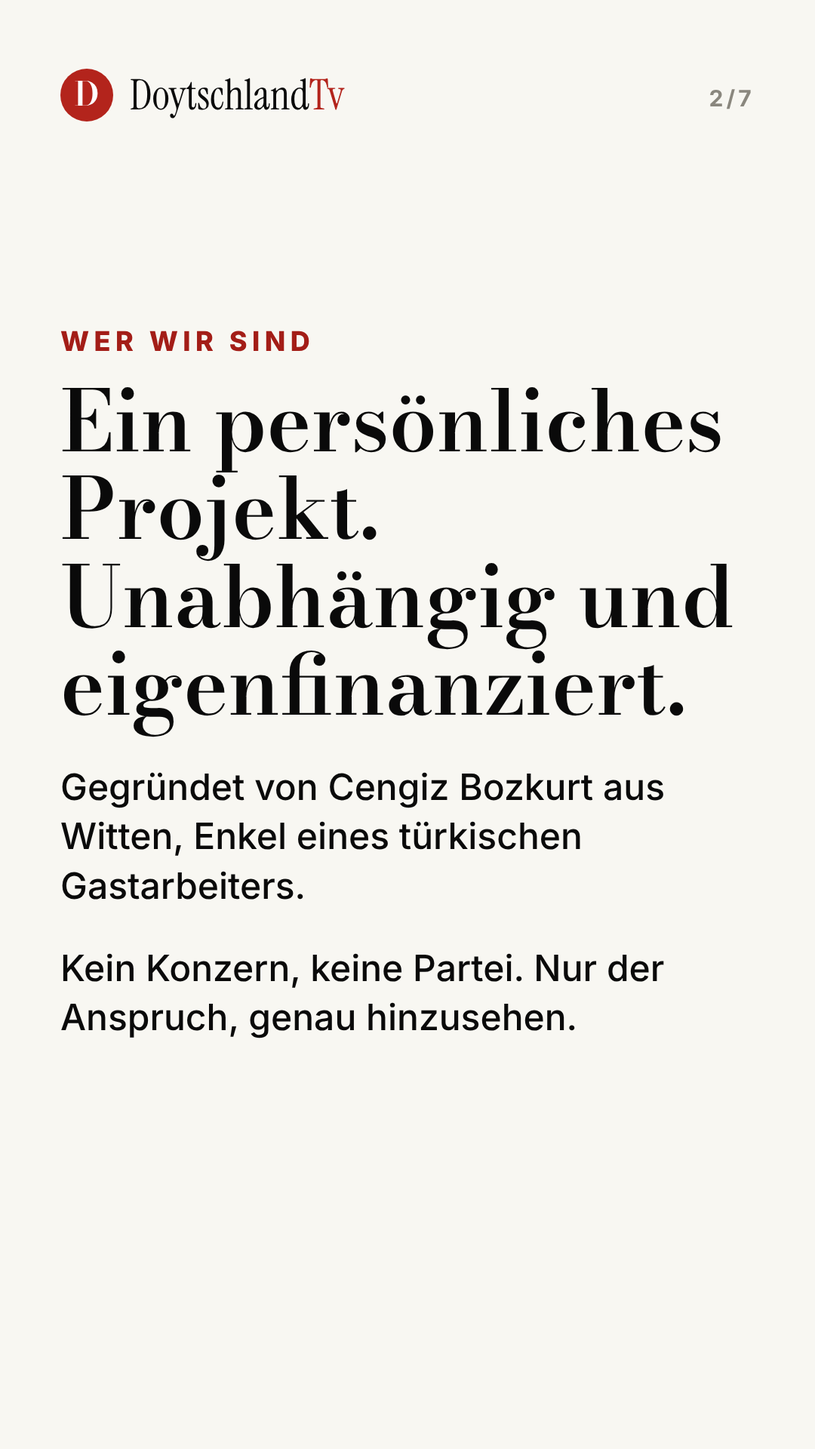
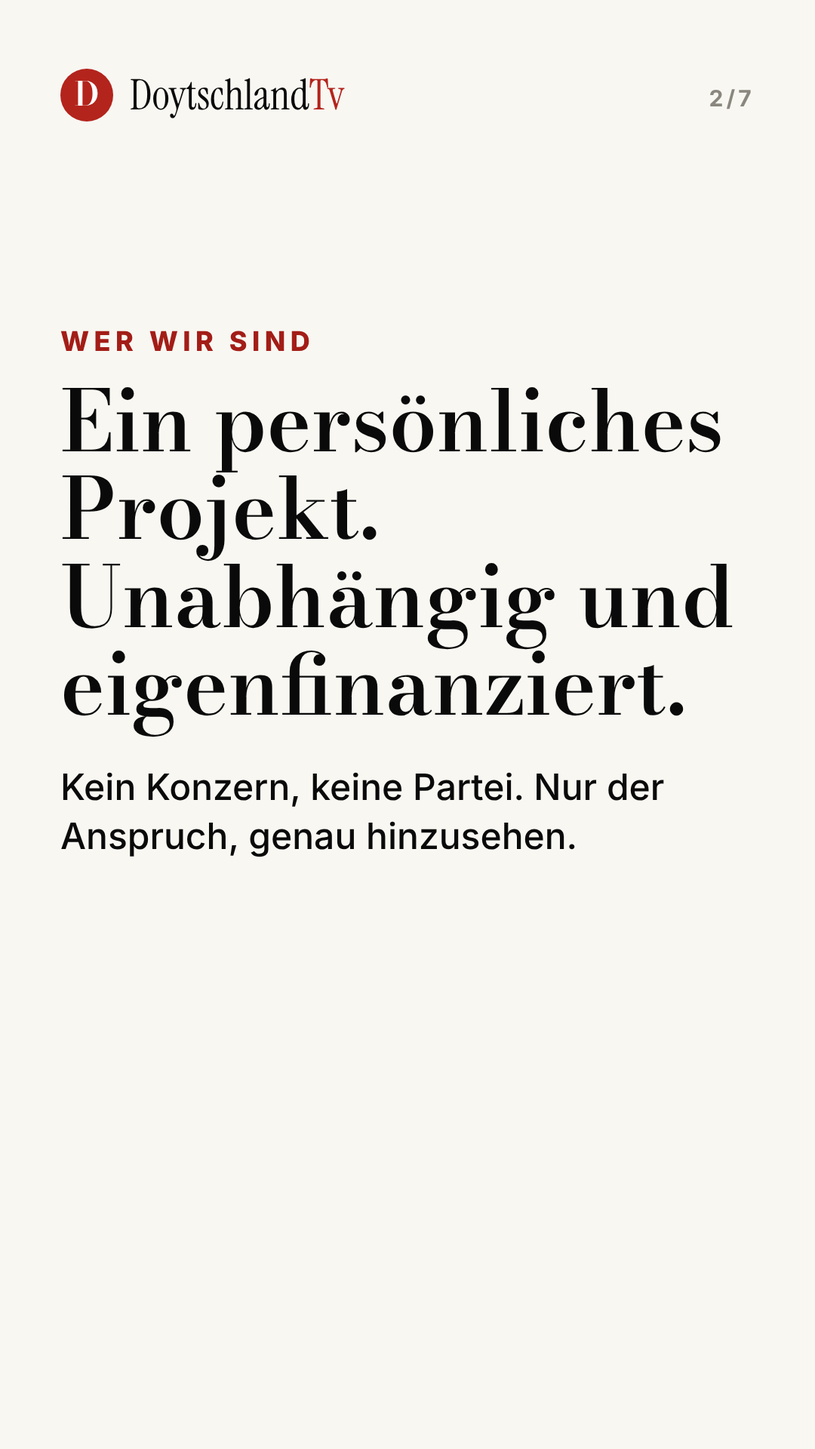
Name und Wohnort aus Über-uns, Stories und Sprechertext entfernt, Story 7 ohne Rückblick-Versprechen
Claude-Session: https://claude.ai/code/session_01HADCkE2LZJHKQCUdz9XwMJ

Changed region(s): [[0.0611, 0.5312, 0.825, 0.625], [0.0611, 0.6562, 0.825, 0.7188]]

diff --git a/meinung/2026-10-09.html b/meinung/2026-10-09.html
@@ -11,4 +11,4 @@
 <script type="application/ld+json">{"@context": "https://schema.org", "@type": "OpinionNewsArticle", "headline": "Vierzig Jahre Krieg, und jetzt? Der Frieden muss bei den Menschen ankommen", "description": "Die PKK erklärt den vollständigen Abzug aus der Türkei. Ein Ende der Gewalt wäre ein Gewinn für Türken und Kurden, doch ob es ein Sieg der Menschen wird…", "datePublished": "2026-10-09", "dateModified": "2026-10-09", "inLanguage": "de", "mainEntityOfPage": "https://doytschtv.de/meinung/2026-10-09.html", "image": ["https://doytschtv.de/kolumne-pkk.jpg"], "author": {"@type": "Organization", "name": "DoytschlandTv", "url": "https://doytschtv.de/"}, "publisher": {"@type": "Organization", "name": "DoytschlandTv", "logo": {"@type": "ImageObject", "url": "https://doytschtv.de/favicon.png"}}, "articleSection": "Meinung"}</script>
 <link rel="stylesheet" href="/fonts.css"><link rel="stylesheet" href="/styles.css"><link rel="stylesheet" href="/briefing.css">
 <style>:root{color-scheme:light}body{margin:0}</style><link rel="icon" type="image/png" href="/favicon.png"></head><body>
-<header class="nav"><div class="wrap"><a class="brand" href="/index.html"><span class="mk" aria-hidden="true">D</span><img class="lg-l" src="/logo.png" alt="DoytschlandTv" width="136" height="25"><img class="lg-d" src="/logo-dark.png" alt="DoytschlandTv" width="136" height="25"></a><ul><li><a href="/briefing.html">Briefing</a></li><li><a href="/nachrichten.html">Nachrichten</a></li><li><a href="/dossiers.html">Dossiers</a></li><li><a href="/meinungen.html" class=on>Meinungen</a></li><li><a href="/erklaert.html">Erklärt</a></li><li><a href="/ueber-uns.html">Über uns</a></li></ul><span class="nav-so"><a href="https://www.instagram.com/doytschlandtv/" target="_blank" rel="noopener" aria-label="DoytschlandTv auf Instagram"><svg viewBox="0 0 24 24" fill="none" stroke="currentColor" stroke-width="2" stroke-linecap="round" aria-hidden="true"><rect x="3" y="3" width="18" height="18" rx="5"/><circle cx="12" cy="12" r="4.2"/><circle cx="17.3" cy="6.7" r=".6" fill="currentColor"/></svg></a><a href="https://www.tiktok.com/@doytschlandtv" target="_blank" rel="noopener" aria-label="DoytschlandTv auf TikTok"><svg viewBox="0 0 24 24" fill="currentColor" aria-hidden="true"><path d="M16.6 5.8A4.3 4.3 0 0 1 15.5 3h-3.1v12.4a2.6 2.6 0 1 1-1.8-2.5V9.7a5.7 5.7 0 1 0 4.9 5.7V9a7.3 7.3 0 0 0 4.3 1.4V7.3a4.3 4.3 0 0 1-3.2-1.5z"/></svg></a></span></div></header><main><div class="wrap"><article class="kol"><p class="b-eyebrow">Meinung · Kolumne · Völkerrecht</p><h1 class="mk-h1">Vierzig Jahre Krieg, und jetzt? Der Frieden muss bei den Menschen ankommen</h1><p class="mk-lead">Die PKK erklärt den vollständigen Abzug aus der Türkei. Ein Ende der Gewalt wäre ein Gewinn für Türken und Kurden, doch ob es ein Sieg der Menschen wird, entscheidet sich jetzt.</p><p class="mk-meta">9. Oktober 2026</p><h2>Worum es geht</h2><p>Die verbotene Kurdische Arbeiterpartei PKK hat am Donnerstag den vollständigen Abzug ihrer bewaffneten Kräfte aus der Türkei erklärt. Das meldet die PKK-nahe Agentur ANF, ORF und watson berichten darüber. Die PKK fordert von der Regierung weitere Schritte und kritisiert, dass die Isolationshaft ihres Gründers Abdullah Öcalan andauert. Dem Staat solle damit, so die Erklärung, keine Möglichkeit mehr für Vorwände bleiben.</p><p>Zwei Dinge gehören gleich dazu. Es ist eine Eigenangabe, von außen kann das niemand prüfen. Und eine Antwort der Regierung in Ankara war bis zum Abend nicht bekannt. Trotzdem ist es ein Einschnitt: Ein Konflikt, der über vierzig Jahre dauerte, wäre damit am Ende.</p><h2>Wie es anfing</h2><p>Die PKK wurde am 27. November 1978 im Dorf Ziyaret bei Lice von Abdullah Öcalan und einer kleinen Gruppe gegründet. Sie verstand sich als marxistisch und wollte zunächst einen sozialistischen kurdischen Staat. Nach dem Militärputsch von 1980 ging die Führung ins Exil nach Syrien und in den Libanon. Am 15. August 1984 begann der bewaffnete Kampf, mit Angriffen in Eruh und Şemdinli.</p><p>Dahinter steht eine ältere Wunde: Kurden wurde in der Türkei jahrzehntelang ihre Sprache und Tradition verweigert. Das erklärt nichts davon, was später an Gewalt geschah. Aber es erklärt, warum der Konflikt so lange Anhänger fand.</p><h2>Die Bilanz</h2><p>Die Zahl der Toten schwankt je nach Quelle. Die International Crisis Group nennt etwa 40.000, t-online schreibt von rund 45.000. Viele davon waren Zivilisten, auf beiden Seiten. Die Anschläge der PKK trafen Zivilisten, und die Zwangsräumungen des Staates trafen Zivilisten.</p><p>In den 1990er Jahren wurden laut türkischer Presse 1.779 Dörfer und 6.153 kleinere Siedlungen zwangsgeräumt. Die Stiftung TESEV schätzt, dass zwischen 950.000 und 1,2 Millionen Menschen aus 14 Provinzen ihre Heimat verloren. Das sind Schätzungen, keine amtlichen Zahlen.</p><h2>Der Anlauf, der scheiterte</h2><p>Im März 2013 rief Öcalan zur Waffenruhe auf, die PKK zog 1.500 bis 2.000 Kämpfer aus der Türkei ab. Es war die erste echte Waffenruhe. Sie hielt nicht. Im Sommer 2015 erklärte Präsident Erdoğan den Prozess für gescheitert, zuvor hatte er das Dolmabahçe-Abkommen vom 28. Februar 2015 nach etwa zwei Wochen für nichtig erklärt.</p><p>Auslöser war eine Kette von Ereignissen: Am 20. Juli 2015 sprengte sich ein IS-Attentäter in Suruç in die Luft, 34 Menschen starben. Zwei Tage später wurden in Ceylanpınar zwei Polizisten tot aufgefunden. Die PKK bekannte sich dazu und nannte es Vergeltung. Die Regierung nahm das zum Anlass, den Friedensprozess zu beenden. Der Fall ist bis heute nicht abschließend aufgeklärt. Ein Gutachten von Dezember 2025 ordnet fünf von zehn Fingerabdrücken am Tatort einem Polizeikollegen zu, keiner stammt von den Angeklagten, die 2018 freigesprochen wurden. Das berichtet Turkish Minute. Eine neue Ermittlung ist laut dem Bericht im Gange, ihr Ausgang ist offen. Wir ziehen daraus keinen Schluss, sondern halten fest, dass die Geschichte dieses Bruchs noch nicht zu Ende erzählt ist.</p><h2>Warum jetzt?</h2><p>Eine einzige Ursache gibt es nicht. Die PKK ist seit 2015 militärisch geschwächt. Die Lage in der Region hat sich verschoben: Der Iran hat an Einfluss verloren, in Damaskus übernahm im Dezember 2024 die HTS die Macht. In der Türkei suchte Devlet Bahçeli, der Koalitionspartner Erdoğans, im Oktober 2024 das Gespräch mit der prokurdischen DEM-Partei. Beobachter nennen außerdem Erdoğans angestrebte Verfassungsänderung, für die er Stimmen im Parlament braucht, und das Ziel, die Opposition zu spalten. Die Bundeszentrale für politische Bildung hält eine rein innenpolitische Erklärung für zu kurz gegriffen.</p><p>Wir sagen deshalb nicht, wer wen bezwungen hat. Wir sagen, dass mehrere Interessen zusammenkamen. Im August 2026 beschloss das türkische Parlament mit großer Mehrheit ein Gesetz, das zur Freilassung zahlreicher PKK-Mitglieder führen könnte. Es greift aber erst, wenn mehrere Schritte erfüllt sind.</p><h2>Die Skepsis</h2><p>Die Skepsis hat Gründe. Die Regierung spricht von einer terrorfreien Türkei und meidet Begriffe wie Dialog oder Verhandlung. Gleichzeitig wurden gewählte Bürgermeister der DEM-Partei abgesetzt, wie die bpb schreibt. Erdoğan lehnte nach Angaben des ZDF im Frühjahr 2025 eine Freilassung Öcalans und Amnestien für verurteilte Terroristen ab. Ob alle Teile der PKK dem Aufruf folgen und wie es mit der YPG in Nordsyrien weitergeht, ist offen.</p><p>Aus kurdischer Sicht werden laut ZDFheute mögliche Verhandlungspunkte genannt: die Anerkennung des Kurdischen als Nationalsprache, eine Änderung des Verfassungsartikels zur Staatsbürgerschaft und ein Ende der Zwangsverwaltungen. Wir teilen nicht alle dieser Forderungen, unsere Haltung steht im Abschnitt „Unsere Meinung“.</p><p>Wer das Ganze für ein taktisches Manöver hält, kann sich also auf Fakten berufen. Wer es für einen echten Neuanfang hält, ebenfalls, denn der Abzug ist erklärt und das Gesetz ist beschlossen. Beides stimmt gleichzeitig. Welche Lesart sich durchsetzt, entscheiden die nächsten Monate.</p><h2>Und in Deutschland?</h2><p>Auch hier gibt es eine Geschichte. Am 26. November 1993 verbot der damalige Bundesinnenminister Manfred Kanther die PKK und 35 nahestehende Organisationen. Die Begründung: 1992 und 1993 hatte es in Deutschland und Westeuropa mehrere Anschlagswellen gegeben. Am 24. Juni 1993 verübten rund 600 Täter 50 Anschläge, in München nahmen 13 Aktivisten das türkische Generalkonsulat als Geisel. Am 4. November 1993 gab es etwa 60 gewalttätige Angriffe auf türkische Einrichtungen und Wohnungen, dabei starb ein Mensch in Wiesbaden.</p><p>Das Verbot gilt weiter. Die Deutsche Vereinigung der Juristinnen und Juristen und der Republikanische Anwältinnen- und Anwälteverein forderten in einem offenen Brief vom 5. Dezember 2025 die Aufhebung. Der Brief nennt laufende Verfahren nach den Paragrafen 129a und 129b und schreibt, Innenminister Dobrindt habe das Verbot zuletzt bekräftigt. In der EU bleibt die PKK als Terrororganisation gelistet. Das ist die Position der Verfasser des Briefs, eine Stellungnahme der Bundesregierung liegt uns dazu nicht vor.</p><h2>Unsere Meinung</h2><p>Endlich. Ein Krieg, der über vierzig Jahre Zehntausende Menschen das Leben kostete und rund eine Million aus ihrer Heimat vertrieb, geht zu Ende. Wenn sich das bestätigt, ist es ein Meilenstein. Er gehört nicht den Männern an der Spitze, sondern den Menschen, die vierzig Jahre für diesen Krieg bezahlt haben: Türken und Kurden, Mütter, Soldaten, Dorfbewohner, Zivilisten. Sie sind die Sieger, wenn der Frieden bleibt.</p><p>Wie es jetzt weitergehen soll, ist für uns klar. Die Türkei soll eine Demokratie sein, in der alle Bürgerinnen und Bürger die gleichen Rechte haben, ob sie sich als Türken, Kurden oder anders verstehen. Die Verfassung der Republik schützt die Grundrechte und die Minderheiten, und daran muss sich der Staat messen lassen. Kurdisch muss frei gesprochen werden können, ohne dass jemand ausgegrenzt wird. Autonomie oder Selbstverwaltung teilen wir nicht als Ziel. Wir sehen alle Bürgerinnen und Bürger unter dem Dach der Türkischen Republik, mit gleichen Rechten für alle.</p><p>Eine Beobachtung dazu: Kurdisch wird im Alltag der Türkei heute gesprochen und gesungen. In den Straßen Istanbuls spielen viele Straßenmusiker kurdische Lieder. Das ist eine persönliche Beobachtung und keine Statistik. Sie ersetzt nicht die Frage, ob jeder Mensch überall dieselben Rechte erlebt, aber sie zeigt, dass kurdische Sprache und Kultur im Alltag ihren Platz hat.</p><p>Wir bewerten das nach der Sache. Gewalt gegen Zivilisten ist nie zu rechtfertigen, auch nicht für ein berechtigtes Anliegen, und es gilt auf jeder Seite. Gleiche Rechte für alle Menschen sind keine Gnade, sondern ein Grundrecht. Den Beteiligten gebührt Anerkennung dafür, dass sie diesen Schritt möglich gemacht haben. Gemessen werden sie an dem, was jetzt kommt.</p><p>Eine persönliche Anmerkung von Cengiz Bozkurt: Ich bin väterlicherseits kurdisch und mütterlicherseits türkisch. Ich habe mein ganzes Leben unter diesem Konflikt gelitten. Deshalb sehe ich beide Seiten: die Opfer der Vertreibung und die Opfer der Anschläge, die Familien der gefallenen Soldaten und die Familien der getöteten Kämpfer und Zivilisten. Für mich ist dieser Tag kein Triumph einer Seite. Er ist die Chance, dass niemand mehr zwischen seiner Herkunft wählen muss.</p><h2>Was folgen sollte</h2><p>Erstens: das Gesetz rechtsstaatlich und ohne Vorwände umsetzen, sobald die Bedingungen erfüllt sind. Zweitens: gleiche Rechte für alle Bürgerinnen und Bürger im Alltag, nicht nur auf dem Papier, auf Grundlage der geltenden Verfassung, die Grundrechte und Minderheiten schützt. Drittens: Kurdisch frei sprechen können, ohne Ausgrenzung. Viertens: eine Aufarbeitung, die allen Opfern gerecht wird, den zivilen Toten, den Vertriebenen und den Familien der Soldaten.</p><p><strong>Ein Frieden, den man verkündet, ist noch keiner. Ein Frieden, den Menschen in ihrem Alltag spüren, ist es. Daran messen wir alle Beteiligten.</strong></p><h2>Quellen</h2><ul><li><a href="https://orf.at/stories/3444486/" rel="noopener" target="_blank">ORF: PKK erklärt militärischen Rückzug (8.10.2026)</a></li><li><a href="https://www.watson.ch/international/tuerkei/823695321-pkk-erklaert-kompletten-rueckzug-aus-der-tuerkei" rel="noopener" target="_blank">watson: PKK verkündet kompletten Rückzug (8.10.2026)</a></li><li><a href="https://www.t-online.de/nachrichten/ausland/internationale-politik/id_100614470/pkk-40-jahre-kampf-gegen-den-tuerkischen-staat-der-einfluss-oecalans.html" rel="noopener" target="_blank">t-online: PKK, 40 Jahre Kampf gegen den türkischen Staat</a></li><li><a href="https://www.bpb.de/themen/europa/tuerkei/562919/aufloesung-der-pkk-k-eine-chance-auf-frieden/" rel="noopener" target="_blank">bpb: Auflösung der PKK, (k)eine Chance auf Frieden</a></li><li><a href="https://www.zdfheute.de/politik/ausland/tuerkei-kurden-konflikt-pkk-aufloesung-konsequenzen-100.html" rel="noopener" target="_blank">ZDFheute: PKK gibt auf, endet damit der Kurdenkonflikt?</a></li><li><a href="https://www.zdfheute.de/politik/ausland/pkk-kurden-arbeiterpartei-tuerkei-ruckzueg-kaempfer-100.html" rel="noopener" target="_blank">ZDFheute: PKK kündigt Abzug aller Kämpfer in den Nordirak an (26.10.2025)</a></li><li><a href="https://de.wikipedia.org/wiki/Konflikt_zwischen_der_Republik_T%C3%BCrkei_und_der_PKK" rel="noopener" target="_blank">Wikipedia: Konflikt zwischen der Republik Türkei und der PKK</a></li><li><a href="https://de.wikipedia.org/wiki/Geschichte_der_Arbeiterpartei_Kurdistans" rel="noopener" target="_blank">Wikipedia: Geschichte der Arbeiterpartei Kurdistans</a></li><li><a href="https://turkishminute.com/2026/07/23/turkish-prosecutors-revisit-2015-police-killings-that-ended-pkk-peace-talks/" rel="noopener" target="_blank">Turkish Minute: Prosecutors revisit 2015 police killings (23.7.2026)</a></li><li><a href="https://www.bundesregierung.de/breg-de/service/newsletter-und-abos/bulletin/verbot-der-arbeiterpartei-kurdistans-in-deutschland-790068" rel="noopener" target="_blank">Bundesregierung (Bulletin): Verbot der Arbeiterpartei Kurdistans in Deutschland</a></li><li><a href="https://www.rav.de/publikationen/mitteilungen/mitteilung/pkk-verbot-aufhebendie-bundesregierung-muss-den-friedensprozess-in-der-tuerkei-aktiv-unterstuetzen-1176" rel="noopener" target="_blank">VDJ und RAV: Offener Brief, PKK-Verbot aufheben (5.12.2025)</a></li></ul><p><a href="/meinungen.html#2026-10-09">Interaktive Ansicht der Kolumne ›</a></p><p class="mk-meta">Dies ist eine Meinung. Tatsachen sind mit Quellen belegt und von Wertungen getrennt.</p></article></div></main><footer><div class="wrap"><span>© DoytschlandTv</span><span><a href="/impressum.html">Impressum</a> · <a href="/datenschutz.html">Datenschutz</a></span></div></footer></body></html>
+<header class="nav"><div class="wrap"><a class="brand" href="/index.html"><span class="mk" aria-hidden="true">D</span><img class="lg-l" src="/logo.png" alt="DoytschlandTv" width="136" height="25"><img class="lg-d" src="/logo-dark.png" alt="DoytschlandTv" width="136" height="25"></a><ul><li><a href="/briefing.html">Briefing</a></li><li><a href="/nachrichten.html">Nachrichten</a></li><li><a href="/dossiers.html">Dossiers</a></li><li><a href="/meinungen.html" class=on>Meinungen</a></li><li><a href="/erklaert.html">Erklärt</a></li><li><a href="/ueber-uns.html">Über uns</a></li></ul><span class="nav-so"><a href="https://www.instagram.com/doytschlandtv/" target="_blank" rel="noopener" aria-label="DoytschlandTv auf Instagram"><svg viewBox="0 0 24 24" fill="none" stroke="currentColor" stroke-width="2" stroke-linecap="round" aria-hidden="true"><rect x="3" y="3" width="18" height="18" rx="5"/><circle cx="12" cy="12" r="4.2"/><circle cx="17.3" cy="6.7" r=".6" fill="currentColor"/></svg></a><a href="https://www.tiktok.com/@doytschlandtv" target="_blank" rel="noopener" aria-label="DoytschlandTv auf TikTok"><svg viewBox="0 0 24 24" fill="currentColor" aria-hidden="true"><path d="M16.6 5.8A4.3 4.3 0 0 1 15.5 3h-3.1v12.4a2.6 2.6 0 1 1-1.8-2.5V9.7a5.7 5.7 0 1 0 4.9 5.7V9a7.3 7.3 0 0 0 4.3 1.4V7.3a4.3 4.3 0 0 1-3.2-1.5z"/></svg></a></span></div></header><main><div class="wrap"><article class="kol"><p class="b-eyebrow">Meinung · Kolumne · Völkerrecht</p><h1 class="mk-h1">Vierzig Jahre Krieg, und jetzt? Der Frieden muss bei den Menschen ankommen</h1><p class="mk-lead">Die PKK erklärt den vollständigen Abzug aus der Türkei. Ein Ende der Gewalt wäre ein Gewinn für Türken und Kurden, doch ob es ein Sieg der Menschen wird, entscheidet sich jetzt.</p><p class="mk-meta">9. Oktober 2026</p><h2>Worum es geht</h2><p>Die verbotene Kurdische Arbeiterpartei PKK hat am Donnerstag den vollständigen Abzug ihrer bewaffneten Kräfte aus der Türkei erklärt. Das meldet die PKK-nahe Agentur ANF, ORF und watson berichten darüber. Die PKK fordert von der Regierung weitere Schritte und kritisiert, dass die Isolationshaft ihres Gründers Abdullah Öcalan andauert. Dem Staat solle damit, so die Erklärung, keine Möglichkeit mehr für Vorwände bleiben.</p><p>Zwei Dinge gehören gleich dazu. Es ist eine Eigenangabe, von außen kann das niemand prüfen. Und eine Antwort der Regierung in Ankara war bis zum Abend nicht bekannt. Trotzdem ist es ein Einschnitt: Ein Konflikt, der über vierzig Jahre dauerte, wäre damit am Ende.</p><h2>Wie es anfing</h2><p>Die PKK wurde am 27. November 1978 im Dorf Ziyaret bei Lice von Abdullah Öcalan und einer kleinen Gruppe gegründet. Sie verstand sich als marxistisch und wollte zunächst einen sozialistischen kurdischen Staat. Nach dem Militärputsch von 1980 ging die Führung ins Exil nach Syrien und in den Libanon. Am 15. August 1984 begann der bewaffnete Kampf, mit Angriffen in Eruh und Şemdinli.</p><p>Dahinter steht eine ältere Wunde: Kurden wurde in der Türkei jahrzehntelang ihre Sprache und Tradition verweigert. Das erklärt nichts davon, was später an Gewalt geschah. Aber es erklärt, warum der Konflikt so lange Anhänger fand.</p><h2>Die Bilanz</h2><p>Die Zahl der Toten schwankt je nach Quelle. Die International Crisis Group nennt etwa 40.000, t-online schreibt von rund 45.000. Viele davon waren Zivilisten, auf beiden Seiten. Die Anschläge der PKK trafen Zivilisten, und die Zwangsräumungen des Staates trafen Zivilisten.</p><p>In den 1990er Jahren wurden laut türkischer Presse 1.779 Dörfer und 6.153 kleinere Siedlungen zwangsgeräumt. Die Stiftung TESEV schätzt, dass zwischen 950.000 und 1,2 Millionen Menschen aus 14 Provinzen ihre Heimat verloren. Das sind Schätzungen, keine amtlichen Zahlen.</p><h2>Der Anlauf, der scheiterte</h2><p>Im März 2013 rief Öcalan zur Waffenruhe auf, die PKK zog 1.500 bis 2.000 Kämpfer aus der Türkei ab. Es war die erste echte Waffenruhe. Sie hielt nicht. Im Sommer 2015 erklärte Präsident Erdoğan den Prozess für gescheitert, zuvor hatte er das Dolmabahçe-Abkommen vom 28. Februar 2015 nach etwa zwei Wochen für nichtig erklärt.</p><p>Auslöser war eine Kette von Ereignissen: Am 20. Juli 2015 sprengte sich ein IS-Attentäter in Suruç in die Luft, 34 Menschen starben. Zwei Tage später wurden in Ceylanpınar zwei Polizisten tot aufgefunden. Die PKK bekannte sich dazu und nannte es Vergeltung. Die Regierung nahm das zum Anlass, den Friedensprozess zu beenden. Der Fall ist bis heute nicht abschließend aufgeklärt. Ein Gutachten von Dezember 2025 ordnet fünf von zehn Fingerabdrücken am Tatort einem Polizeikollegen zu, keiner stammt von den Angeklagten, die 2018 freigesprochen wurden. Das berichtet Turkish Minute. Eine neue Ermittlung ist laut dem Bericht im Gange, ihr Ausgang ist offen. Wir ziehen daraus keinen Schluss, sondern halten fest, dass die Geschichte dieses Bruchs noch nicht zu Ende erzählt ist.</p><h2>Warum jetzt?</h2><p>Eine einzige Ursache gibt es nicht. Die PKK ist seit 2015 militärisch geschwächt. Die Lage in der Region hat sich verschoben: Der Iran hat an Einfluss verloren, in Damaskus übernahm im Dezember 2024 die HTS die Macht. In der Türkei suchte Devlet Bahçeli, der Koalitionspartner Erdoğans, im Oktober 2024 das Gespräch mit der prokurdischen DEM-Partei. Beobachter nennen außerdem Erdoğans angestrebte Verfassungsänderung, für die er Stimmen im Parlament braucht, und das Ziel, die Opposition zu spalten. Die Bundeszentrale für politische Bildung hält eine rein innenpolitische Erklärung für zu kurz gegriffen.</p><p>Wir sagen deshalb nicht, wer wen bezwungen hat. Wir sagen, dass mehrere Interessen zusammenkamen. Im August 2026 beschloss das türkische Parlament mit großer Mehrheit ein Gesetz, das zur Freilassung zahlreicher PKK-Mitglieder führen könnte. Es greift aber erst, wenn mehrere Schritte erfüllt sind.</p><h2>Die Skepsis</h2><p>Die Skepsis hat Gründe. Die Regierung spricht von einer terrorfreien Türkei und meidet Begriffe wie Dialog oder Verhandlung. Gleichzeitig wurden gewählte Bürgermeister der DEM-Partei abgesetzt, wie die bpb schreibt. Erdoğan lehnte nach Angaben des ZDF im Frühjahr 2025 eine Freilassung Öcalans und Amnestien für verurteilte Terroristen ab. Ob alle Teile der PKK dem Aufruf folgen und wie es mit der YPG in Nordsyrien weitergeht, ist offen.</p><p>Aus kurdischer Sicht werden laut ZDFheute mögliche Verhandlungspunkte genannt: die Anerkennung des Kurdischen als Nationalsprache, eine Änderung des Verfassungsartikels zur Staatsbürgerschaft und ein Ende der Zwangsverwaltungen. Wir teilen nicht alle dieser Forderungen, unsere Haltung steht im Abschnitt „Unsere Meinung“.</p><p>Wer das Ganze für ein taktisches Manöver hält, kann sich also auf Fakten berufen. Wer es für einen echten Neuanfang hält, ebenfalls, denn der Abzug ist erklärt und das Gesetz ist beschlossen. Beides stimmt gleichzeitig. Welche Lesart sich durchsetzt, entscheiden die nächsten Monate.</p><h2>Und in Deutschland?</h2><p>Auch hier gibt es eine Geschichte. Am 26. November 1993 verbot der damalige Bundesinnenminister Manfred Kanther die PKK und 35 nahestehende Organisationen. Die Begründung: 1992 und 1993 hatte es in Deutschland und Westeuropa mehrere Anschlagswellen gegeben. Am 24. Juni 1993 verübten rund 600 Täter 50 Anschläge, in München nahmen 13 Aktivisten das türkische Generalkonsulat als Geisel. Am 4. November 1993 gab es etwa 60 gewalttätige Angriffe auf türkische Einrichtungen und Wohnungen, dabei starb ein Mensch in Wiesbaden.</p><p>Das Verbot gilt weiter. Die Deutsche Vereinigung der Juristinnen und Juristen und der Republikanische Anwältinnen- und Anwälteverein forderten in einem offenen Brief vom 5. Dezember 2025 die Aufhebung. Der Brief nennt laufende Verfahren nach den Paragrafen 129a und 129b und schreibt, Innenminister Dobrindt habe das Verbot zuletzt bekräftigt. In der EU bleibt die PKK als Terrororganisation gelistet. Das ist die Position der Verfasser des Briefs, eine Stellungnahme der Bundesregierung liegt uns dazu nicht vor.</p><h2>Unsere Meinung</h2><p>Endlich. Ein Krieg, der über vierzig Jahre Zehntausende Menschen das Leben kostete und rund eine Million aus ihrer Heimat vertrieb, geht zu Ende. Wenn sich das bestätigt, ist es ein Meilenstein. Er gehört nicht den Männern an der Spitze, sondern den Menschen, die vierzig Jahre für diesen Krieg bezahlt haben: Türken und Kurden, Mütter, Soldaten, Dorfbewohner, Zivilisten. Sie sind die Sieger, wenn der Frieden bleibt.</p><p>Wie es jetzt weitergehen soll, ist für uns klar. Die Türkei soll eine Demokratie sein, in der alle Bürgerinnen und Bürger die gleichen Rechte haben, ob sie sich als Türken, Kurden oder anders verstehen. Die Verfassung der Republik schützt die Grundrechte und die Minderheiten, und daran muss sich der Staat messen lassen. Kurdisch muss frei gesprochen werden können, ohne dass jemand ausgegrenzt wird. Autonomie oder Selbstverwaltung teilen wir nicht als Ziel. Wir sehen alle Bürgerinnen und Bürger unter dem Dach der Türkischen Republik, mit gleichen Rechten für alle.</p><p>Eine Beobachtung dazu: Kurdisch wird im Alltag der Türkei heute gesprochen und gesungen. In den Straßen Istanbuls spielen viele Straßenmusiker kurdische Lieder. Das ist eine persönliche Beobachtung und keine Statistik. Sie ersetzt nicht die Frage, ob jeder Mensch überall dieselben Rechte erlebt, aber sie zeigt, dass kurdische Sprache und Kultur im Alltag ihren Platz hat.</p><p>Wir bewerten das nach der Sache. Gewalt gegen Zivilisten ist nie zu rechtfertigen, auch nicht für ein berechtigtes Anliegen, und es gilt auf jeder Seite. Gleiche Rechte für alle Menschen sind keine Gnade, sondern ein Grundrecht. Den Beteiligten gebührt Anerkennung dafür, dass sie diesen Schritt möglich gemacht haben. Gemessen werden sie an dem, was jetzt kommt.</p><p>Eine persönliche Anmerkung des Autors: Ich bin väterlicherseits kurdisch und mütterlicherseits türkisch. Ich habe mein ganzes Leben unter diesem Konflikt gelitten. Deshalb sehe ich beide Seiten: die Opfer der Vertreibung und die Opfer der Anschläge, die Familien der gefallenen Soldaten und die Familien der getöteten Kämpfer und Zivilisten. Für mich ist dieser Tag kein Triumph einer Seite. Er ist die Chance, dass niemand mehr zwischen seiner Herkunft wählen muss.</p><h2>Was folgen sollte</h2><p>Erstens: das Gesetz rechtsstaatlich und ohne Vorwände umsetzen, sobald die Bedingungen erfüllt sind. Zweitens: gleiche Rechte für alle Bürgerinnen und Bürger im Alltag, nicht nur auf dem Papier, auf Grundlage der geltenden Verfassung, die Grundrechte und Minderheiten schützt. Drittens: Kurdisch frei sprechen können, ohne Ausgrenzung. Viertens: eine Aufarbeitung, die allen Opfern gerecht wird, den zivilen Toten, den Vertriebenen und den Familien der Soldaten.</p><p><strong>Ein Frieden, den man verkündet, ist noch keiner. Ein Frieden, den Menschen in ihrem Alltag spüren, ist es. Daran messen wir alle Beteiligten.</strong></p><h2>Quellen</h2><ul><li><a href="https://orf.at/stories/3444486/" rel="noopener" target="_blank">ORF: PKK erklärt militärischen Rückzug (8.10.2026)</a></li><li><a href="https://www.watson.ch/international/tuerkei/823695321-pkk-erklaert-kompletten-rueckzug-aus-der-tuerkei" rel="noopener" target="_blank">watson: PKK verkündet kompletten Rückzug (8.10.2026)</a></li><li><a href="https://www.t-online.de/nachrichten/ausland/internationale-politik/id_100614470/pkk-40-jahre-kampf-gegen-den-tuerkischen-staat-der-einfluss-oecalans.html" rel="noopener" target="_blank">t-online: PKK, 40 Jahre Kampf gegen den türkischen Staat</a></li><li><a href="https://www.bpb.de/themen/europa/tuerkei/562919/aufloesung-der-pkk-k-eine-chance-auf-frieden/" rel="noopener" target="_blank">bpb: Auflösung der PKK, (k)eine Chance auf Frieden</a></li><li><a href="https://www.zdfheute.de/politik/ausland/tuerkei-kurden-konflikt-pkk-aufloesung-konsequenzen-100.html" rel="noopener" target="_blank">ZDFheute: PKK gibt auf, endet damit der Kurdenkonflikt?</a></li><li><a href="https://www.zdfheute.de/politik/ausland/pkk-kurden-arbeiterpartei-tuerkei-ruckzueg-kaempfer-100.html" rel="noopener" target="_blank">ZDFheute: PKK kündigt Abzug aller Kämpfer in den Nordirak an (26.10.2025)</a></li><li><a href="https://de.wikipedia.org/wiki/Konflikt_zwischen_der_Republik_T%C3%BCrkei_und_der_PKK" rel="noopener" target="_blank">Wikipedia: Konflikt zwischen der Republik Türkei und der PKK</a></li><li><a href="https://de.wikipedia.org/wiki/Geschichte_der_Arbeiterpartei_Kurdistans" rel="noopener" target="_blank">Wikipedia: Geschichte der Arbeiterpartei Kurdistans</a></li><li><a href="https://turkishminute.com/2026/07/23/turkish-prosecutors-revisit-2015-police-killings-that-ended-pkk-peace-talks/" rel="noopener" target="_blank">Turkish Minute: Prosecutors revisit 2015 police killings (23.7.2026)</a></li><li><a href="https://www.bundesregierung.de/breg-de/service/newsletter-und-abos/bulletin/verbot-der-arbeiterpartei-kurdistans-in-deutschland-790068" rel="noopener" target="_blank">Bundesregierung (Bulletin): Verbot der Arbeiterpartei Kurdistans in Deutschland</a></li><li><a href="https://www.rav.de/publikationen/mitteilungen/mitteilung/pkk-verbot-aufhebendie-bundesregierung-muss-den-friedensprozess-in-der-tuerkei-aktiv-unterstuetzen-1176" rel="noopener" target="_blank">VDJ und RAV: Offener Brief, PKK-Verbot aufheben (5.12.2025)</a></li></ul><p><a href="/meinungen.html#2026-10-09">Interaktive Ansicht der Kolumne ›</a></p><p class="mk-meta">Dies ist eine Meinung. Tatsachen sind mit Quellen belegt und von Wertungen getrennt.</p></article></div></main><footer><div class="wrap"><span>© DoytschlandTv</span><span><a href="/impressum.html">Impressum</a> · <a href="/datenschutz.html">Datenschutz</a></span></div></footer></body></html>

diff --git a/ueber-uns.html b/ueber-uns.html
@@ -17,12 +17,12 @@
 <style>:root{color-scheme:light}body{margin:0}</style><link rel="icon" type="image/png" href="favicon.png"></head><body>
 <header class="nav"><div class="wrap"><a class="brand" href="index.html"><span class="mk" aria-hidden="true">D</span><img class="lg-l" src="logo.png" alt="DoytschlandTv" width="136" height="25"><img class="lg-d" src="logo-dark.png" alt="DoytschlandTv" width="136" height="25"></a><ul><li><a href="briefing.html">Briefing</a></li><li><a href="nachrichten.html">Nachrichten</a></li><li><a href="dossiers.html">Dossiers</a></li><li><a href="meinungen.html">Meinungen</a></li><li><a href="erklaert.html">Erklärt</a></li><li><a href="ueber-uns.html" class=on>Über uns</a></li></ul><span class="nav-so"><a href="https://www.instagram.com/doytschlandtv/" target="_blank" rel="noopener" aria-label="DoytschlandTv auf Instagram"><svg viewBox="0 0 24 24" fill="none" stroke="currentColor" stroke-width="2" stroke-linecap="round" aria-hidden="true"><rect x="3" y="3" width="18" height="18" rx="5"/><circle cx="12" cy="12" r="4.2"/><circle cx="17.3" cy="6.7" r=".6" fill="currentColor"/></svg></a><a href="https://www.tiktok.com/@doytschlandtv" target="_blank" rel="noopener" aria-label="DoytschlandTv auf TikTok"><svg viewBox="0 0 24 24" fill="currentColor" aria-hidden="true"><path d="M16.6 5.8A4.3 4.3 0 0 1 15.5 3h-3.1v12.4a2.6 2.6 0 1 1-1.8-2.5V9.7a5.7 5.7 0 1 0 4.9 5.7V9a7.3 7.3 0 0 0 4.3 1.4V7.3a4.3 4.3 0 0 1-3.2-1.5z"/></svg></a></span></div></header><main><div class="wrap">
 <div class="pagehead"><h1>Über DoytschlandTv</h1><p>Nachrichten, Einordnung und Haltung. Fakt und Meinung getrennt.</p></div>
-<section class="wer"><figure><img src="titel-briefing.jpg" alt="Skizze von Cengiz Bozkurt" width="1050" height="1439" loading="lazy"><figcaption>Illustration, KI-generiert, kein Foto</figcaption></figure>
+<section class="wer"><figure><img src="titel-briefing.jpg" alt="Illustration des Gründers" width="1050" height="1439" loading="lazy"><figcaption>Illustration, KI-generiert, kein Foto</figcaption></figure>
 <div><h2>Wer dahintersteckt</h2>
-<p>Ich bin Cengiz Bozkurt, lebe in Witten und bin Enkel eines türkischen Gastarbeiters.</p>
+<p>Ich bin Enkel eines türkischen Gastarbeiters.</p>
 <h3>Mein Erbe</h3>
 <p>Mein Großvater kam Ende der 1960er Jahre mit einem Koffer nach Deutschland. Er brachte darin mehr mit als Kleidung: Tradition, Kultur und Werte wie Pflicht und Verantwortung. Dieses Erbe trage ich bis heute mit.</p>
-<p>Ich bin in Witten geboren und trage mehrere Welten in mir: deutsche Sprache und deutschen Pass, anatolische Wurzeln, ein Erbe, das ich nicht ablege. Diese Vielfalt ist für mich kein Widerspruch, sondern der Grund, warum ich genau hinsehe. Ich habe erlebt, wie schnell aus einem Bild über eine Gruppe ein Urteil über den Einzelnen wird.</p>
+<p>Ich bin in Deutschland geboren und trage mehrere Welten in mir: deutsche Sprache und deutschen Pass, anatolische Wurzeln, ein Erbe, das ich nicht ablege. Diese Vielfalt ist für mich kein Widerspruch, sondern der Grund, warum ich genau hinsehe. Ich habe erlebt, wie schnell aus einem Bild über eine Gruppe ein Urteil über den Einzelnen wird.</p>
 <h3>Warum „Doytsch“?</h3>
 <p>Mein Großvater hat „deutsch“ immer genau so ausgesprochen, wie es hier geschrieben steht: Doytsch. Daher kommt der Name. Ich bin Deutscher, aber eben deutsch mit Y. Das steht für mich für eine neue Identität des Deutschseins.</p>
 <h3>Warum DoytschlandTv?</h3>

diff --git a/kolumnen.js b/kolumnen.js
@@ -548,7 +548,7 @@ window.KOLUMNEN = [
      "Wie es jetzt weitergehen soll, ist für uns klar. Die Türkei soll eine Demokratie sein, in der alle Bürgerinnen und Bürger die gleichen Rechte haben, ob sie sich als Türken, Kurden oder anders verstehen. Die Verfassung der Republik schützt die Grundrechte und die Minderheiten, und daran muss sich der Staat messen lassen. Kurdisch muss frei gesprochen werden können, ohne dass jemand ausgegrenzt wird. Autonomie oder Selbstverwaltung teilen wir nicht als Ziel. Wir sehen alle Bürgerinnen und Bürger unter dem Dach der Türkischen Republik, mit gleichen Rechten für alle.",
      "Eine Beobachtung dazu: Kurdisch wird im Alltag der Türkei heute gesprochen und gesungen. In den Straßen Istanbuls spielen viele Straßenmusiker kurdische Lieder. Das ist eine persönliche Beobachtung und keine Statistik. Sie ersetzt nicht die Frage, ob jeder Mensch überall dieselben Rechte erlebt, aber sie zeigt, dass kurdische Sprache und Kultur im Alltag ihren Platz hat.",
      "Wir bewerten das nach der Sache. Gewalt gegen Zivilisten ist nie zu rechtfertigen, auch nicht für ein berechtigtes Anliegen, und es gilt auf jeder Seite. Gleiche Rechte für alle Menschen sind keine Gnade, sondern ein Grundrecht. Den Beteiligten gebührt Anerkennung dafür, dass sie diesen Schritt möglich gemacht haben. Gemessen werden sie an dem, was jetzt kommt.",
-     "Eine persönliche Anmerkung von Cengiz Bozkurt: Ich bin väterlicherseits kurdisch und mütterlicherseits türkisch. Ich habe mein ganzes Leben unter diesem Konflikt gelitten. Deshalb sehe ich beide Seiten: die Opfer der Vertreibung und die Opfer der Anschläge, die Familien der gefallenen Soldaten und die Familien der getöteten Kämpfer und Zivilisten. Für mich ist dieser Tag kein Triumph einer Seite. Er ist die Chance, dass niemand mehr zwischen seiner Herkunft wählen muss."
+     "Eine persönliche Anmerkung des Autors: Ich bin väterlicherseits kurdisch und mütterlicherseits türkisch. Ich habe mein ganzes Leben unter diesem Konflikt gelitten. Deshalb sehe ich beide Seiten: die Opfer der Vertreibung und die Opfer der Anschläge, die Familien der gefallenen Soldaten und die Familien der getöteten Kämpfer und Zivilisten. Für mich ist dieser Tag kein Triumph einer Seite. Er ist die Chance, dass niemand mehr zwischen seiner Herkunft wählen muss."
     ]
    },
    {

diff --git a/briefing-app.js b/briefing-app.js
@@ -92,7 +92,7 @@
       au.controls = true; au.preload = "none"; au.src = ed.audio;
       au.setAttribute("aria-label", label + " anhören");
       ap.appendChild(au);
-      ap.appendChild(el("p", "b-ki", "Hinweis: Diese Stimme ist KI-generiert (nach der Stimme von Cengiz Bozkurt)."));
+      ap.appendChild(el("p", "b-ki", "Hinweis: Diese Stimme ist KI-generiert (nach der Stimme des Gründers)."));
       box.appendChild(ap);
     }
     var tx = el("div", "b-text");
@@ -142,9 +142,9 @@
     sec1.appendChild(el("h2", "b-sec-h", "Morning Briefing" + (m && m.dauer ? " · " + m.dauer : "")));
     if (m) {
       var fig = el("figure", "b-host"), im = document.createElement("img");
-      im.src = "titel-briefing.jpg"; im.alt = "Skizze von Cengiz Bozkurt"; im.width = 1050; im.height = 1439; im.loading = "lazy";
+      im.src = "titel-briefing.jpg"; im.alt = "Illustration des Gründers"; im.width = 1050; im.height = 1439; im.loading = "lazy";
       fig.appendChild(im);
-      fig.appendChild(el("figcaption", null, "Cengiz Bozkurt · Illustration, KI-generiert, kein Foto"));
+      fig.appendChild(el("figcaption", null, "Illustration, KI-generiert, kein Foto"));
       sec1.appendChild(fig);
     }
     if (m && m.themen && m.themen.length) {

diff --git a/kolumne-app.js b/kolumne-app.js
@@ -114,7 +114,7 @@
       var w = el("div", "b-audio"), au = document.createElement("audio");
       au.controls = true; au.preload = "none"; au.src = k.audio; au.setAttribute("aria-label", "Kolumne anhören");
       w.appendChild(au);
-      w.appendChild(el("p", "b-ki", "Hinweis: Diese Stimme ist KI-generiert (nach der Stimme von Cengiz Bozkurt)."));
+      w.appendChild(el("p", "b-ki", "Hinweis: Diese Stimme ist KI-generiert (nach der Stimme des Gründers)."));
       a.appendChild(w);
     }
     var secs = k.abschnitte;

diff --git a/social/2026-10-18-launch/sprechertexte-reels.md b/social/2026-10-18-launch/sprechertexte-reels.md
@@ -23,7 +23,7 @@ Ab dem 18. Oktober. Folge uns und prüf nach.
 Mein Großvater sagte nie „deutsch“. Er sagte: Doytsch. Deutsch mit Y. Eine neue Identität des Deutschseins.
 
 **0:06 bis 0:12 (Wer wir sind)**
-Ein persönliches Projekt. Unabhängig, eigenfinanziert, ohne Konzern, ohne Partei. Ich bin Cengiz, aus Witten.
+Ein persönliches Projekt. Unabhängig, eigenfinanziert, ohne Konzern, ohne Partei. Ich mache das allein.
 
 **0:13 bis 0:20 (Maßstab)**
 Unser Maßstab: Grundgesetz, Menschenrechte, Völkerrecht. Für alle gleich. Wir kritisieren Entscheidungen, nicht Menschen.
